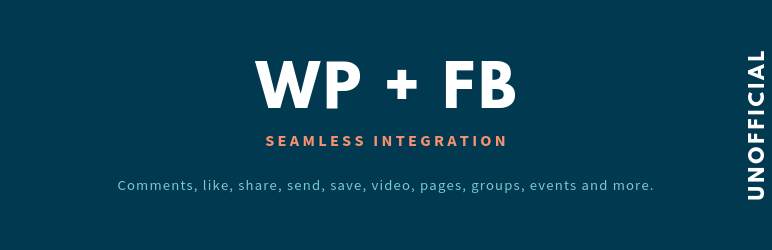
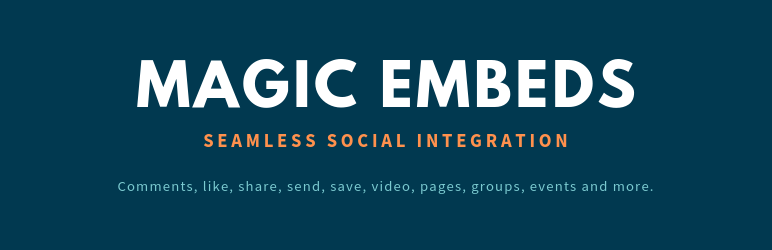
Bump version v3.0.7

diff --git a/inc/Social_Plugins.php b/inc/Social_Plugins.php
@@ -390,7 +390,7 @@ class Social_Plugins {
 			],
 			'video'    => [
 				'docs' => 'plugins/embedded-video-player',
-				'demo' => 'embedded-video-live-video-player',
+				'demo' => 'social-plugins/embedded-video-live-video-player',
 			],
 			'page'     => [
 				'docs' => 'plugins/page-plugin',
@@ -565,7 +565,7 @@ class Social_Plugins {
 			) {
 				return self::usage( $type );
 			}
-			
+
 			$ret = self::get( $type, $atts );
 
 			if ( ( Plugin::get_option( 'enq_when_needed' ) == 'true' ) && ( Plugin::get_option( 'enq_fbjs' ) == 'true' ) ) {
@@ -592,12 +592,8 @@ class Social_Plugins {
 
 			if ( isset( $atts['debug'] ) ) {
 				$ret .= self::debug( $ret, $atts, $type );
-				//$ret .= print_r($ret,true);
-				//$ret .= print_r($atts,true);
-				//$ret .= print_r($data,true);
 			}
 
-			//return print_r($atts,true);
 			/**
 			 * Filter social plugin shortcode output.
 			 *
@@ -661,10 +657,9 @@ class Social_Plugins {
 			$string .= "$att=\"$default\" ";
 		}
 		ob_start();
-		echo '<p>' . __( 'Shortcode usage example:', 'wp-embed-facebook' ) . '</p>';
-		echo '<p>[fb_plugin ' . $type . $string . ' adaptive="false|true" ]</p>';
-		echo '<p>' . __( 'More information:',
-				'wp-embed-facebook' ) . ' ' . self::get_links( $type ) . '</p>';
+		echo sprintf( "<p>%s</p>", __( 'Shortcode usage example:', 'wp-embed-facebook' ) );
+		echo sprintf( "<p>[fb_plugin %s%s adaptive=\"false|true\" ]</p>", $type, $string );
+		echo sprintf( "<p>%s %s</p>", __( 'More information:', 'wp-embed-facebook' ), self::get_links( $type ) );
 
 		return ob_get_clean();
 	}

diff --git a/inc/Plugin.php b/inc/Plugin.php
@@ -19,7 +19,7 @@ if ( ! defined( 'WPINC' ) ) {
  */
 final class Plugin extends Framework {
 
-	const VER = '3.0.6';
+	const VER = '3.0.7';
 
 	static $option    = 'wpemfb_options';
 	static $menu_slug = 'embedfacebook';
@@ -783,8 +783,8 @@ final class Plugin extends Framework {
 <!--                    👾</a>-->
 <!--            </h3>-->
             <hr>
-            <p><a href="http://www.wpembedfb.com" title="plugin website" target="_blank">
-                    <small><?php _e( 'Plugin Website', 'wp-embed-facebook' ) ?></small>
+            <p><a href="http://www.wpembedfb.com" title="WP Embed FB Extended" target="_blank">
+                    <img width="100%" height="auto" alt="WEF Extended" src="<?php echo self::url() . 'inc/banners/WPEmbedFBExtended.png'?>" />
                 </a></p>
 			<?php echo ob_get_clean(); ?>
 

diff --git a/wp-embed-facebook.php b/wp-embed-facebook.php
@@ -5,11 +5,11 @@
 @link      https://www.wpembedfb.com
 @package   WP Embed FB
 @wordpress-plugin
-Plugin Name: WP Embed FB
+Plugin Name: Magic Embeds
 Plugin URI: http://www.wpembedfb.com
 Description: Embed any public Facebook video, photo, album, event, page, comment, profile, or post. Add Facebook comments to all your site, insert Facebook social plugins (like, save, send, share, follow, quote, comments) anywhere on your site. View the <a href="https://wpembedfb.com/features" title="plugin website" target="_blank">features</a>.
 Author: Miguel Sirvent
-Version: 3.0.6
+Version: 3.0.7
 Author URI: http://www.wpembedfb.com
 Text Domain: wp-embed-facebook
 GitHub Plugin URI: sigami/wp-embed-facebook

diff --git a/inc/Magic_Embeds.php b/inc/Magic_Embeds.php
@@ -63,9 +63,9 @@ class Magic_Embeds {
 
 	static function init() {
 		if ( Helpers::has_fb_app() ) {
-			if ( (float) substr( Plugin::get_option( 'sdk_version' ), 1 ) <= 2.8 ) {
+			if ( (float) substr( Plugin::get_option( 'sdk_version' ), 1 ) <= 2.10 ) {
 				$options                = Plugin::get_option();
-				$options['sdk_version'] = 'v3.1';
+				$options['sdk_version'] = 'v3.3';
 				Plugin::set_options( $options );
 			}
 		}

diff --git a/inc/Helpers.php b/inc/Helpers.php
@@ -158,16 +158,13 @@ class Helpers {
 
 	static function get_api_versions() {
 		return [
-			//'v2.6'  => '2.6',
-			//'v2.7'  => '2.7',
-			//'v2.8'  => '2.8',
-			'v2.9'  => '2.9',
-			'v2.10' => '2.10',
+			//'v2.10' => '2.10',
 			'v2.11' => '2.11',
 			'v2.12' => '2.12',
 			'v3.0'  => '3.0',
 			'v3.1'  => '3.1',
 			'v3.2'  => '3.2',
+			'v3.3'  => '3.3',
 		];
 	}
 
